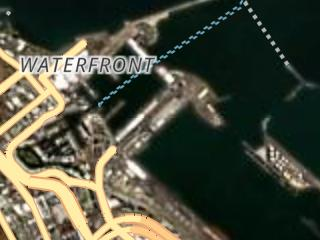
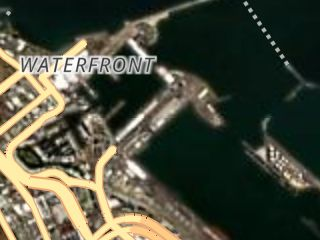
fix: leave the ferry routes out of the Satellite labels
Bright's dashed ferry routes streaked the sea over the imagery. An
imagery source can now name label layers to leave out, as data, and
Satellite leaves out the ferry layer. The preview is rendered again.

diff --git a/packages/web/src/adapters/maplibre/MapLibreMapAdapter.ts b/packages/web/src/adapters/maplibre/MapLibreMapAdapter.ts
@@ -309,8 +309,9 @@ function removeStyleLayers(map: MapLibreMap, ids: readonly string[]): void {
 
 /**
  * Turns the label style an imagery basemap loaded into the hybrid: it keeps
- * only the layers that draw from the basemap's `labelSourceLayers`, then adds
- * the imagery as a raster source and layer under them. Its `maxzoom` is the
+ * only the layers that draw from the basemap's `labelSourceLayers`, less any
+ * named in `labelOmitLayers`, then adds the imagery as a raster source and
+ * layer under them. Its `maxzoom` is the
  * deepest tile level with real detail, so MapLibre enlarges those tiles
  * further in and requests nothing deeper. Does nothing for another basemap.
  */
@@ -323,6 +324,7 @@ function composeImagery(
     return;
   }
   const keep = new Set(source.labelSourceLayers);
+  const omit = new Set(source.labelOmitLayers);
   const layers = map.getStyle().layers as {
     id: string;
     "source-layer"?: string;
@@ -330,7 +332,9 @@ function composeImagery(
   removeStyleLayers(
     map,
     layers
-      .filter((layer) => !keep.has(layer["source-layer"] ?? ""))
+      .filter(
+        (layer) => omit.has(layer.id) || !keep.has(layer["source-layer"] ?? ""),
+      )
       .map((layer) => layer.id),
   );
   map.addSource(IMAGERY_ID, {

diff --git a/packages/web/src/adapters/maplibre/MapLibreMapAdapter.test.ts b/packages/web/src/adapters/maplibre/MapLibreMapAdapter.test.ts
@@ -1320,6 +1320,7 @@ describe("MapLibreMapAdapter", () => {
         { id: "water", source: "planet", "source-layer": "water" },
         { id: "relief", source: "relief-source" },
         { id: "roads", source: "planet", "source-layer": "transportation" },
+        { id: "ferries", source: "planet", "source-layer": "transportation" },
         { id: "towns", source: "planet", "source-layer": "place" },
       ];
       map.sources.clear();
@@ -1334,7 +1335,7 @@ describe("MapLibreMapAdapter", () => {
       expect(map.options.style).toBe("https://tiles.example/labels.json");
     });
 
-    it("keeps only the label and road layers, and draws the imagery under them", async () => {
+    it("keeps only the label and road layers, less those it names to leave out, and draws the imagery under them", async () => {
       const { map } = await mounted({ basemap: FAKE_IMAGERY_BASEMAP });
       loadLabelStyle(map);
       expect(layerIds(map)).toEqual(["basemap-imagery", "roads", "towns"]);

diff --git a/packages/web/src/basemaps/hostBasemaps.test.ts b/packages/web/src/basemaps/hostBasemaps.test.ts
@@ -168,7 +168,7 @@ describe("the Satellite basemap", () => {
     expect(SATELLITE_BASEMAP.thumbnail).toBe("/basemaps/satellite.jpg");
   });
 
-  it("draws the place names, roads and borders of OpenFreeMap Bright over the imagery", () => {
+  it("draws the place names, roads and borders of OpenFreeMap Bright over the imagery, without its ferry routes", () => {
     expect(SATELLITE_BASEMAP.source).toMatchObject({
       labelStyleUrl: "https://tiles.openfreemap.org/styles/bright",
       labelSourceLayers: [
@@ -179,6 +179,7 @@ describe("the Satellite basemap", () => {
         "water_name",
         "aerodrome_label",
       ],
+      labelOmitLayers: ["ferry"],
     });
   });
 

diff --git a/packages/core/src/ports/basemap.ts b/packages/core/src/ports/basemap.ts
@@ -45,6 +45,11 @@ export type BasemapSource =
       readonly labelStyleUrl: string;
       /** The vector source layers of that style to keep, such as `place` and `transportation`. */
       readonly labelSourceLayers: readonly string[];
+      /**
+       * Ids of layers of that style to leave out although they draw from a
+       * kept source layer, such as ferry routes that would streak the sea.
+       */
+      readonly labelOmitLayers?: readonly string[];
     };
 
 /**

diff --git a/packages/web/src/basemaps/satelliteBasemap.ts b/packages/web/src/basemaps/satelliteBasemap.ts
@@ -73,6 +73,9 @@ export const SATELLITE_BASEMAP: BasemapDefinition = {
       "water_name",
       "aerodrome_label",
     ],
+    // Bright's dashed ferry routes (a `transportation` layer) streak the sea
+    // over imagery at every zoom, so they are left out.
+    labelOmitLayers: ["ferry"],
   },
   minZoom: 0,
   maxZoom: SATELLITE_MAX_ZOOM,

diff --git a/packages/core/src/fakes/fixtures.ts b/packages/core/src/fakes/fixtures.ts
@@ -46,6 +46,7 @@ export const FAKE_IMAGERY_BASEMAP: BasemapDefinition =
       maxTileZoom: 14,
       labelStyleUrl: "https://tiles.example/labels.json",
       labelSourceLayers: ["place", "transportation"],
+      labelOmitLayers: ["ferries"],
     },
     minZoom: 0,
     maxZoom: 17,

diff --git a/ARCHITECTURE.md b/ARCHITECTURE.md
@@ -69,7 +69,7 @@ Add an interface only where a boundary has at least two implementations. The fak
 
 The settings keys are `mapcairn:<name>`.
 
-`BasemapDefinition` is a typed data module, not a port. It is the only place that names a tile source or an attribution string. A `raster` source is a tile URL template and a tile size, a `vector` source is a style URL, and an `imagery` source is a hybrid: image tiles (a tile URL template, a tile size and `maxTileZoom`, the deepest level with real detail) under the layers of a label style (`labelStyleUrl`) that draw from the source layers it names (`labelSourceLayers`). `usesMoreData` (core) is true for a raster or imagery basemap, and the picker's Save data note reads it. A definition may set `nonCommercial` when its provider's licence allows only non-commercial use; the SDK's own list holds none, which a test in core checks, together with an allow-list of the SDK's source origins. `DEFAULT_BASEMAP_ID` (Bright) is the basemap in both themes when nothing is saved or linked, and an unknown id, including the "auto" of earlier versions, resolves to it. `DEFAULT_BASEMAP_BACKGROUND` is its land colour; the `mapBackground` token carries the same value (a test in `packages/web` keeps them equal), so the server-rendered placeholder and the map host match Bright before it draws. The reference host offers four of the SDK's seven basemaps and two of its own (see below), so there a saved or linked `liberty` opens on the default. The placeholder also holds the decorative `ChromeSkeleton`, so the chrome is in its final place on the first paint.
+`BasemapDefinition` is a typed data module, not a port. It is the only place that names a tile source or an attribution string. A `raster` source is a tile URL template and a tile size, a `vector` source is a style URL, and an `imagery` source is a hybrid: image tiles (a tile URL template, a tile size and `maxTileZoom`, the deepest level with real detail) under the layers of a label style (`labelStyleUrl`) that draw from the source layers it names (`labelSourceLayers`), less any layer it names to leave out (`labelOmitLayers`, such as ferry routes). `usesMoreData` (core) is true for a raster or imagery basemap, and the picker's Save data note reads it. A definition may set `nonCommercial` when its provider's licence allows only non-commercial use; the SDK's own list holds none, which a test in core checks, together with an allow-list of the SDK's source origins. `DEFAULT_BASEMAP_ID` (Bright) is the basemap in both themes when nothing is saved or linked, and an unknown id, including the "auto" of earlier versions, resolves to it. `DEFAULT_BASEMAP_BACKGROUND` is its land colour; the `mapBackground` token carries the same value (a test in `packages/web` keeps them equal), so the server-rendered placeholder and the map host match Bright before it draws. The reference host offers four of the SDK's seven basemaps and two of its own (see below), so there a saved or linked `liberty` opens on the default. The placeholder also holds the decorative `ChromeSkeleton`, so the chrome is in its final place on the first paint.
 
 **Host-supplied basemaps.** The SDK ships only the built-in basemaps (`BASEMAPS`). A host that wants another builds a `BasemapCatalogue` with `createBasemapCatalogue(basemaps, defaultId)` and passes it as the optional `Services.basemaps`; without it the ui offers the built-in catalogue (`BUILT_IN_BASEMAP_CATALOGUE`, Bright the default). The catalogue is plain data with `get(id)` and `resolve(id)`, not a port: it has one shape and no second implementation, so it has no fake and no contract suite, and `portRegistry` lists it under `DATA_SERVICE_NAMES` beside the ports. The picker (`BasemapPicker`), the saved-or-linked choice (`useBasemapChoice`) and the default all read it through `useBasemaps()`, and an id the catalogue does not hold, such as the retired "maptoolkit-dark", resolves to its default. A provider whose licence the host accepts, and that the reusable SDK packages must not carry, is defined in the host and added to a catalogue the host builds. The reference host adds two, Topographic and Satellite, and it does not offer the whole built-in list either: `packages/web/src/basemaps/hostBasemaps.ts` builds the host's catalogue from a subset of `BASEMAPS` with `getBasemap`, the host's own definitions from `packages/web/src/basemaps/openTopoMapBasemap.ts` and `satelliteBasemap.ts`, and `createBasemapCatalogue` (the same SDK definition objects, none copied), and `createServices()` passes it. It holds Bright (the default), Positron, Streets, Topographic (OpenTopoMap, defined by the host, not the SDK), Satellite (EOX Sentinel-2 cloudless imagery under OpenFreeMap Bright's place names, roads and borders, defined by the host) and Dark (`appearance: "dark"`, a manual choice that never follows the theme), in that order. OpenTopoMap is a volunteer-run server whose terms ask for light use and a note about it, so the SDK does not send every app built on it there; the host takes that on, and its definition imports types only so the thumbnail script can load it. Satellite's imagery is under CC BY-NC-SA 4.0, a non-commercial licence the reusable SDK must never carry, so the host defines it with `nonCommercial: true`; EOX's tiles come from a free demo service with no guarantee and rate limits, which basemap-unavailable detection covers. Its definition imports types only too. The other four ask for no more than their credit text. Liberty, Colorful and Fiord stay in the SDK for other hosts, and the site makes no request to the VersaTiles server that Colorful uses. A saved or linked id the catalogue does not hold, such as `liberty` or the retired `maptoolkit-dark`, opens on the default. The WebMCP `set-map-basemap` tool offers the basemaps of the host's catalogue (`useBasemaps()`), so it never offers one the picker does not show; a basemap marked `nonCommercial` is left out (`basemapChoices`), because an agent should not accept a provider's licence on a person's behalf, so the tool offers five of the reference host's six. In the e2e build only, the browser test seam can replace the catalogue, so a spec can run on a host that offers the SDK's whole list.
 
@@ -83,7 +83,7 @@ Pure helpers (layer templates, decoders and style evaluation, zoom conversion, m
 
 ## The map adapter
 
-MapLibre GL JS is the only map engine, and the ui never imports it. `MapView` takes an adapter factory (`() => MapAdapter`) from the services, mounts one adapter in a host element and wires events to the rest of the ui. Changing basemap calls `setBasemap` on that adapter, with the Save data mode (`useSaveData`: the stored choice, else the device preference), so the adapter can leave out the layers the basemap's `saveDataOmitLayers` lists. It removes those layers, and any source only they use, in its `style.load` handler, before data layers are drawn again, so a Save data change never loses them. It avoids `transformStyle` because a swap with it set waits for the current style, so a failed swap could not put the last basemap back. The adapter builds an inline raster style for a `raster` source and loads the style URL for a `vector` source. For an `imagery` source it loads the label style and, in its `style.load` handler, before Save data and data layers, removes every layer that does not draw from one of `labelSourceLayers` (and any source only those used), then adds the imagery as a raster source capped at `maxTileZoom` and a layer under the rest, so MapLibre enlarges the deepest real level instead of asking for more. No code names a basemap.
+MapLibre GL JS is the only map engine, and the ui never imports it. `MapView` takes an adapter factory (`() => MapAdapter`) from the services, mounts one adapter in a host element and wires events to the rest of the ui. Changing basemap calls `setBasemap` on that adapter, with the Save data mode (`useSaveData`: the stored choice, else the device preference), so the adapter can leave out the layers the basemap's `saveDataOmitLayers` lists. It removes those layers, and any source only they use, in its `style.load` handler, before data layers are drawn again, so a Save data change never loses them. It avoids `transformStyle` because a swap with it set waits for the current style, so a failed swap could not put the last basemap back. The adapter builds an inline raster style for a `raster` source and loads the style URL for a `vector` source. For an `imagery` source it loads the label style and, in its `style.load` handler, before Save data and data layers, removes every layer that does not draw from one of `labelSourceLayers`, and those in `labelOmitLayers` (and any source only those used), then adds the imagery as a raster source capped at `maxTileZoom` and a layer under the rest, so MapLibre enlarges the deepest real level instead of asking for more. No code names a basemap.
 
 - **Zoom** is normalised to the 256 px tile convention (OpenStreetMap tile numbering). MapLibre counts 512 px tiles, so the engine zoom is the normalised zoom minus one. That offset is one constant, converted only inside the adapter. For the 256 px raster style, the tile level equals the normalised zoom. The URL, the saved view, the scale bar and the tests use the normalised value only.
 - **Overlays** (pin, measure line, accuracy circle, the selected feature's ring) are drawn once, in a single overlay layer positioned with `adapter.project` and hidden with `adapter.isVisible` when they are on the far side of a globe. The pin, the measure line, drawn shapes, handles and directions stops are placed through `placePoint` and `placePath` in core (`packages/core/src/globe`), described under Flat or globe.

diff --git a/DESIGN.md b/DESIGN.md
@@ -18,7 +18,7 @@ Tokens live in `packages/theme/src/tokens.css.ts`. Components may only use token
 ## Tokens
 
 - **Colour roles:** surface, surface-raised, text, text-muted, accent, accent-tint, hairline, danger, scrim, focus-ring, page-background, map-background, map-globe-space. The neutral ramp is OKLCH with a faint cool tint. The accent is one clear blue. Page-background follows the theme and sits behind full pages such as the privacy policy. Map-background is the default basemap's land colour in both themes, so the map region before the map draws matches the map that follows. Map-globe-space is the space around the sphere when the map is a globe, and only then: a cool mid grey in the light theme (`oklch(0.82 0.02 250)`), dark enough that pale land at the edge of the globe still shows and light enough to sit with the light chrome, and a dark blue in the dark theme (`oklch(0.31 0.025 255)`), dark against the dark chrome yet lighter and bluer than the near-black Dark basemap and the deep sea of the Satellite imagery, so their edges show too. A test keeps it at 1.2:1 or more against the land of every basemap the site offers, and the chrome text over it at 4.5:1.
-- **Save data:** a switch in Settings, on by default when the browser reports a data saver or a `slow-2g` or `2g` connection (Chrome, Edge and Samsung Internet; iOS has no signal), and a stored choice always wins. While it is on, the picker shows names and a plain colour swatch (the basemap's own `swatch` colour, else the map background token) instead of thumbnails, Streets, Topographic and Satellite, whose tiles are images, carry the note "Uses more data", and a basemap leaves out the style layers it lists in `saveDataOmitLayers`. The SDK's Liberty, which the reference host does not offer, lists its shaded-relief raster layer (`natural_earth`), about a third of the first view's bytes; Bright, the default, Dark and the SDK's Fiord list none, because their styles draw no raster layer. Satellite still draws its imagery in Save data mode, because without it the map would be labels on nothing; it never asks for a tile deeper than level 14, where the imagery's real detail ends, and its tiles (about 15 to 25 KB each, measured 2026-11-11) cost about what the Streets tiles do. The adapter removes them as each style loads, so no code names a basemap and data layers are drawn again afterwards. Switching it redraws the map once, only for a basemap that lists layers to leave out.
+- **Save data:** a switch in Settings, on by default when the browser reports a data saver or a `slow-2g` or `2g` connection (Chrome, Edge and Samsung Internet; iOS has no signal), and a stored choice always wins. While it is on, the picker shows names and a plain colour swatch (the basemap's own `swatch` colour, else the map background token) instead of thumbnails, Streets, Topographic and Satellite, whose tiles are images, carry the note "Uses more data", and a basemap leaves out the style layers it lists in `saveDataOmitLayers`. The SDK's Liberty, which the reference host does not offer, lists its shaded-relief raster layer (`natural_earth`), about a third of the first view's bytes; Bright, the default, Dark and the SDK's Fiord list none, because their styles draw no raster layer. Satellite still draws its imagery in Save data mode, because without it the map would be labels on nothing; it never asks for a tile deeper than level 14, where the imagery's real detail ends, and its tiles (14 to 23 KB each over Cape Town at levels 12 to 14, measured 2026-11-11) are a little smaller than the Streets tiles of the same place (22 to 35 KB). The adapter removes them as each style loads, so no code names a basemap and data layers are drawn again afterwards. Switching it redraws the map once, only for a basemap that lists layers to leave out.
 - **Basemap:** Bright is the default in both themes. The basemap never follows the light or dark theme. The picker offers what the host supplies. The reference host offers six, in this order: Bright (the default), Positron, Streets, Topographic, Satellite and Dark, as manual choices like any other. They sit in a grid of three columns, two full rows of three. The SDK defines seven (`BASEMAPS`): Bright, Positron, Streets and Dark from the six, and Liberty, Colorful and Fiord, which a host may offer. Topographic and Satellite are not among them: the reference host defines them itself, Topographic so the SDK does not send every app built on it to a volunteer-run server, and Satellite because its imagery's licence is non-commercial. The reference host builds its own catalogue from a subset of the SDK's list and its own definition, to ask fewer volunteer-run servers for tiles and to keep the picker short. A saved or linked id the host does not offer (`liberty`, `colorful` or `fiord`, the old "auto", or the retired `maptoolkit-dark`) opens on Bright, and a saved value is left alone. Topographic is OpenTopoMap, a free raster map with contour lines and shaded relief, defined by the host and under CC-BY-SA, with its credit in full: OpenStreetMap contributors, SRTM, OpenTopoMap and CC-BY-SA. It reaches zoom 17, as deeper levels return a blank tile. Satellite is a hybrid: EOX's Sentinel-2 cloudless imagery (CC BY-NC-SA 4.0, free for non-commercial use with credit) with the place names, roads and borders of OpenFreeMap Bright over it, because EOX's own labels overlay has no licence of its own. Its credit is shown in full and word for word: "EOxCloudless https://cloudless.eox.at by EOX IT Services GmbH (Contains modified Copernicus Sentinel data 2025)", the licence, then the OpenFreeMap credits. The imagery's detail ends at zoom 14 and the map stops at 17, where the labels are still useful over the enlarged imagery. Its appearance is dark, and its swatch is a dark green of the host's own. The WebMCP basemap tool does not offer it, because an agent should not accept a provider's licence on a person's behalf. Dark is OpenFreeMap's neutral dark style, and it asks for no more than the credit text the other OpenFreeMap styles carry. In the SDK, Fiord is OpenFreeMap's blue-toned dark style, and Colorful is VersaTiles' style, from a provider other than OpenFreeMap, which carries its credit text (OpenStreetMap contributors, VersaTiles, ESA WorldCover 2021 and the CC BY 4.0 licence it is under) and nothing else; its land colour is the default's, so it needs no swatch. A basemap with no preview image shows a plain swatch, as every basemap does in Save data mode. A definition may set `swatch`, a hex colour for that tile, so a dark basemap does not look like the pale default: Dark's and Fiord's are their styles' own land colours; Satellite's is a colour of the host's own, not sampled from the imagery. The picker applies it with a custom property set through CSSOM, never an inline `style` attribute. On it, the selected tile's check badge stays legible in both themes (the tick on the accent disc, and the disc or its raised-surface ring against the swatch, at least 3:1), and the name sits below the tile on the sheet. The SDK carries no provider whose licence it would have to accept; a host adds one as data (see `ARCHITECTURE.md`, host-supplied basemaps).
 - **Data palette:** the one set of colours data layers draw with, separate from the interface roles. Seven Okabe-Ito categorical colours (without black) and a five-step ordered ramp, light to dark, in `tokenValues.dataPalette`. Definitions name a slot (`vermillion`, `ordinal-3`), never a value; categories must use categorical slots and steps ordinal ones. Every marker has a dark edge inside a white halo (`tokenValues.dataMarker`), the same on the map and in the legend, so the pale steps show on a light map and the dark ones on a dark surface; contrast tests cover both. Validation refuses a colour rule with no shape, size or words beside it.
 - **Surfaces:** translucent with backdrop blur, with an opaque fallback and the `-webkit-` prefix. `prefers-contrast: more` and `prefers-reduced-transparency` make them opaque and remove blur. Contrast is computed over the worst-case backdrops (pure white and pure black map) and over the default basemap's land colour, because a dark theme no longer means a dark map.
